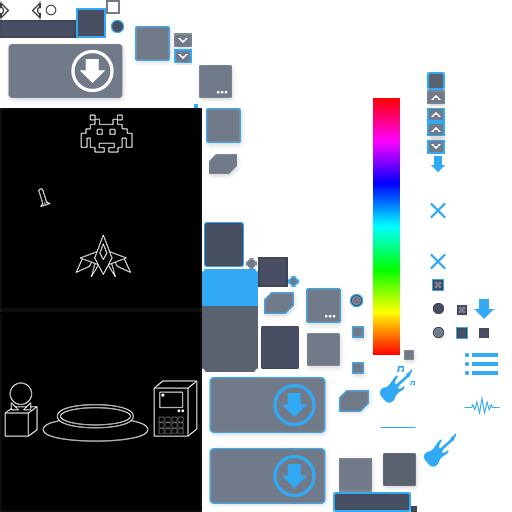
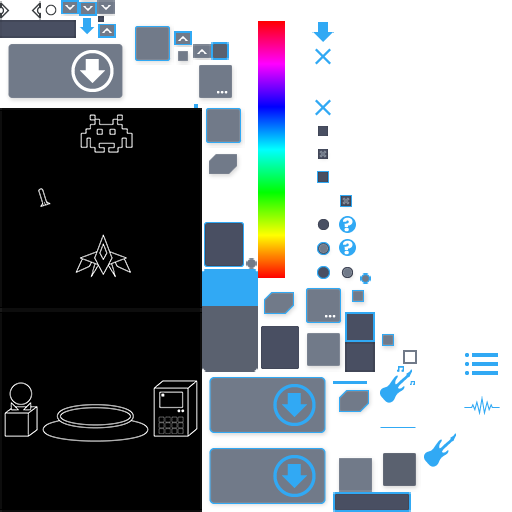
Added About Dialog

diff --git a/Particle Park Code/core/src/com/ray3k/particlepark/DialogAbout.java b/Particle Park Code/core/src/com/ray3k/particlepark/DialogAbout.java
@@ -1,0 +1,86 @@
+/*
+ * The MIT License
+ *
+ * Copyright 2019 Raymond Buckley.
+ *
+ * Permission is hereby granted, free of charge, to any person obtaining a copy
+ * of this software and associated documentation files (the "Software"), to deal
+ * in the Software without restriction, including without limitation the rights
+ * to use, copy, modify, merge, publish, distribute, sublicense, and/or sell
+ * copies of the Software, and to permit persons to whom the Software is
+ * furnished to do so, subject to the following conditions:
+ *
+ * The above copyright notice and this permission notice shall be included in
+ * all copies or substantial portions of the Software.
+ *
+ * THE SOFTWARE IS PROVIDED "AS IS", WITHOUT WARRANTY OF ANY KIND, EXPRESS OR
+ * IMPLIED, INCLUDING BUT NOT LIMITED TO THE WARRANTIES OF MERCHANTABILITY,
+ * FITNESS FOR A PARTICULAR PURPOSE AND NONINFRINGEMENT. IN NO EVENT SHALL THE
+ * AUTHORS OR COPYRIGHT HOLDERS BE LIABLE FOR ANY CLAIM, DAMAGES OR OTHER
+ * LIABILITY, WHETHER IN AN ACTION OF CONTRACT, TORT OR OTHERWISE, ARISING FROM,
+ * OUT OF OR IN CONNECTION WITH THE SOFTWARE OR THE USE OR OTHER DEALINGS IN
+ * THE SOFTWARE.
+ */
+package com.ray3k.particlepark;
+
+import com.badlogic.gdx.Gdx;
+import com.badlogic.gdx.scenes.scene2d.Actor;
+import com.badlogic.gdx.scenes.scene2d.ui.Dialog;
+import com.badlogic.gdx.scenes.scene2d.ui.Label;
+import com.badlogic.gdx.scenes.scene2d.ui.Skin;
+import com.badlogic.gdx.scenes.scene2d.ui.Table;
+import com.badlogic.gdx.scenes.scene2d.ui.TextButton;
+import com.badlogic.gdx.scenes.scene2d.utils.ChangeListener;
+import com.badlogic.gdx.utils.Align;
+
+/**
+ *
+ * @author Raymond
+ */
+public class DialogAbout extends Dialog {
+    private Core core;
+    private Skin skin;
+
+    public DialogAbout(Core core, Skin skin) {
+        super("About", skin);
+        
+        this.core = core;
+        this.skin = skin;
+        
+        getTitleLabel().setAlignment(Align.center);
+        
+        refresh();
+    }
+    
+    private void refresh() {
+        Table root = getContentTable();
+        root.pad(10);
+        root.clear();
+        
+        Label label = new Label("Particle Park is developed by Raeleus for the LibGDX community.\nVersion " + core.version + "\nCopyright Raymond \"Raeleus\" Buckley 2019", skin);
+        label.setAlignment(Align.center);
+        root.add(label);
+        
+        root.row();
+        TextButton textButton = new TextButton("github.com/raeleus/Particle-Park", skin, "link");
+        root.add(textButton);
+        textButton.addListener(core.handListener);
+        textButton.addListener(new ChangeListener() {
+            @Override
+            public void changed(ChangeListener.ChangeEvent event, Actor actor) {
+                Gdx.net.openURI("https://github.com/raeleus/Particle-Park");
+            }
+        });
+        
+        root.row();
+        textButton = new TextButton("Thanks!", skin);
+        root.add(textButton);
+        textButton.addListener(core.handListener);
+        textButton.addListener(new ChangeListener() {
+            @Override
+            public void changed(ChangeListener.ChangeEvent event, Actor actor) {
+                hide();
+            }
+        });
+    }
+}

diff --git a/Particle Park Code/core/src/com/ray3k/particlepark/screens/MenuScreen.java b/Particle Park Code/core/src/com/ray3k/particlepark/screens/MenuScreen.java
@@ -45,6 +45,7 @@ import com.badlogic.gdx.scenes.scene2d.utils.ChangeListener;
 import com.badlogic.gdx.utils.Array;
 import com.badlogic.gdx.utils.viewport.ScreenViewport;
 import com.ray3k.particlepark.Core;
+import com.ray3k.particlepark.DialogAbout;
 
 /**
  *
@@ -82,8 +83,22 @@ public class MenuScreen implements Screen {
         stage.addActor(root);
         root.pad(5).padTop(10);
         
+        Table table = new Table();
+        root.add(table).growX();
+        
         Label label = new Label("Select a Scene", skin, "window");
-        root.add(label);
+        table.add(label).expandX();
+        
+        Button button = new Button(skin, "about");
+        table.add(button).padRight(5);
+        button.addListener(core.handListener);
+        button.addListener(new ChangeListener() {
+            @Override
+            public void changed(ChangeListener.ChangeEvent event, Actor actor) {
+                DialogAbout dialog = new DialogAbout(core, skin);
+                dialog.show(stage);
+            }
+        });
         
         HorizontalGroup horizontalGroup = new HorizontalGroup();
         horizontalGroup.wrap();
@@ -115,7 +130,7 @@ public class MenuScreen implements Screen {
         label = new Label("Copyright 2019 Raymond Buckley", skin);
         root.add(label).left().padTop(5);
         
-        Table table = new Table();
+        table = new Table();
         table.setFillParent(true);
         stage.addActor(table);
         

diff --git a/Particle Park Code/core/src/com/ray3k/particlepark/Core.java b/Particle Park Code/core/src/com/ray3k/particlepark/Core.java
@@ -34,6 +34,7 @@ public class Core extends Game {
     public IbeamListener iBeamListener;
     public Preferences preferences;
     public DesktopWorker desktopWorker;
+    public String version = "1";
     
     @Override
     public void create() {
